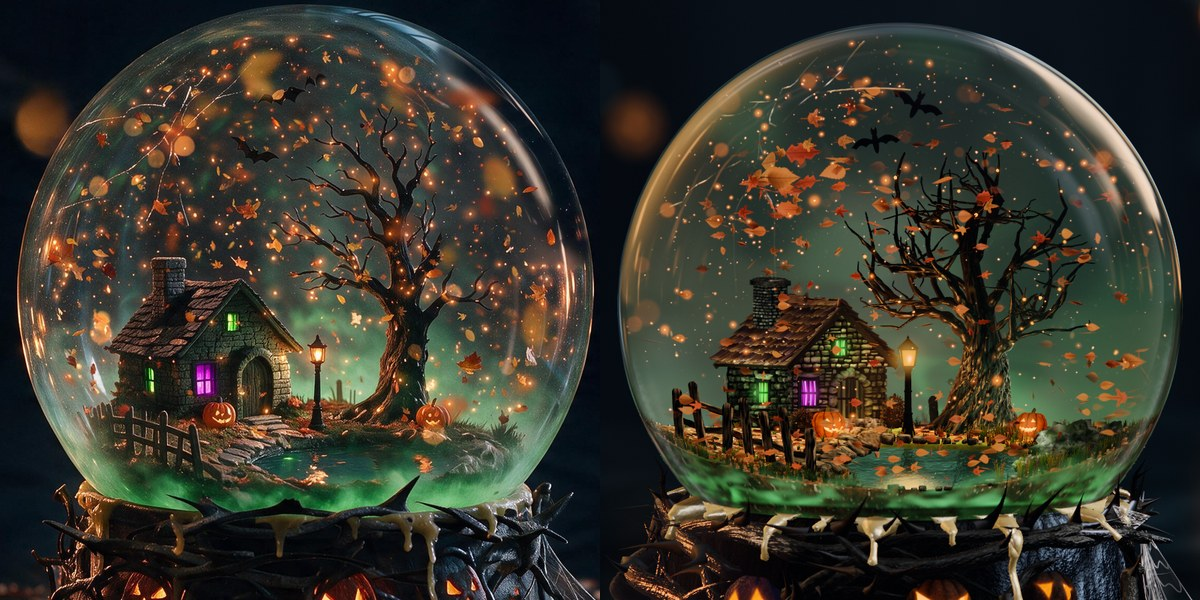
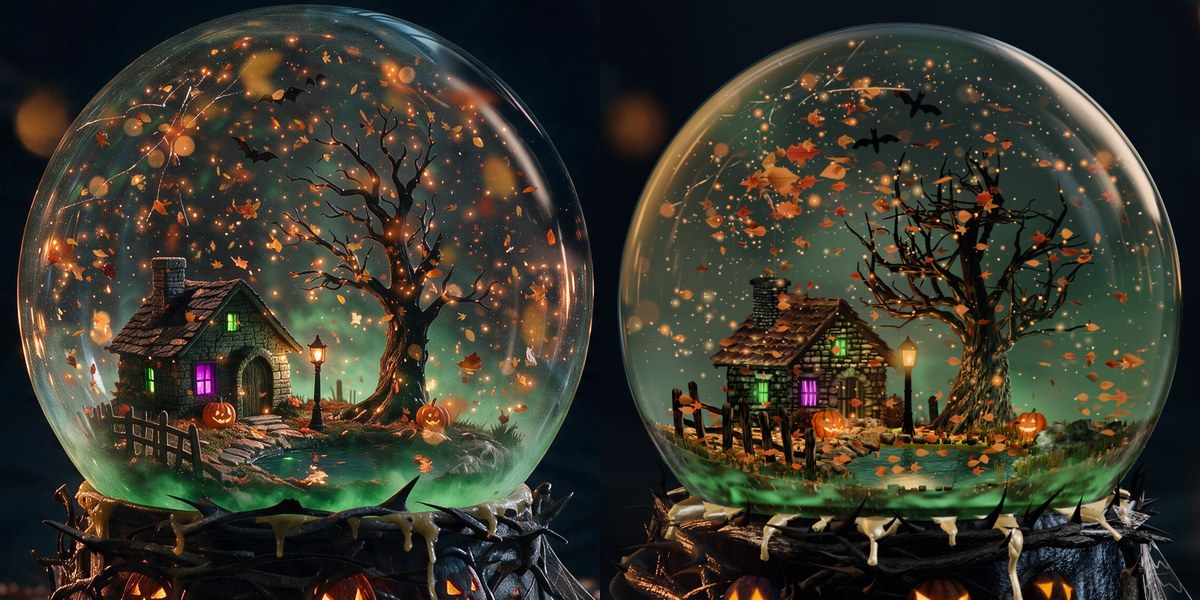
Looks for the spark trial: rest pair, sparks at two times, trio, landed pair

diff --git a/HANDOVER.md b/HANDOVER.md
@@ -21,3 +21,13 @@ A bat circles the globe's axis (engine `wanderAt`, not this branch's file): ring
 ## Not seen
 - The bats in motion: the film was not rendered with the slower, tighter ring. Their turn is about 0.42 to 0.54 radians a second now (was about 0.8 to 1.0).
 - The lip with the ball turned, and at the storm other than the landed still.
+
+## The spark trial after the fourth list (c13801a0, pushed as 1ba316ee)
+
+What it does: at rest, sparks under the clear ones (own number from 0.22 on) keep 0.3 of their light (`sparkRestFine` in looks.ts, one line in the card's vertex stage) and are tinted pale gold (`spark.restFineHot`, `spark.restFineSeen`, one line in the spark's fragment stage). The storm is untouched.
+
+Reads at hd, review tier, 7a5fd873 to c13801a0, approved in brackets: smallest orange class 326 to 318 (206); points outside the crown box 825 to 1042 (1484); miniature's M3 share 0.893 to 0.917 (main without my change 0.922).
+
+Tried on the way: the same points left orange (smallest 375, outside 1007); dimmer and more of them (395, 1067); a whiter tint (290, 1075) which read as snow by eye and was dropped.
+
+Open: the fine points are paler and cooler than the approved's. Bats stay 44 px and 32 px off, accepted by the root. Next list: the leaves' lengths in three boxes.
